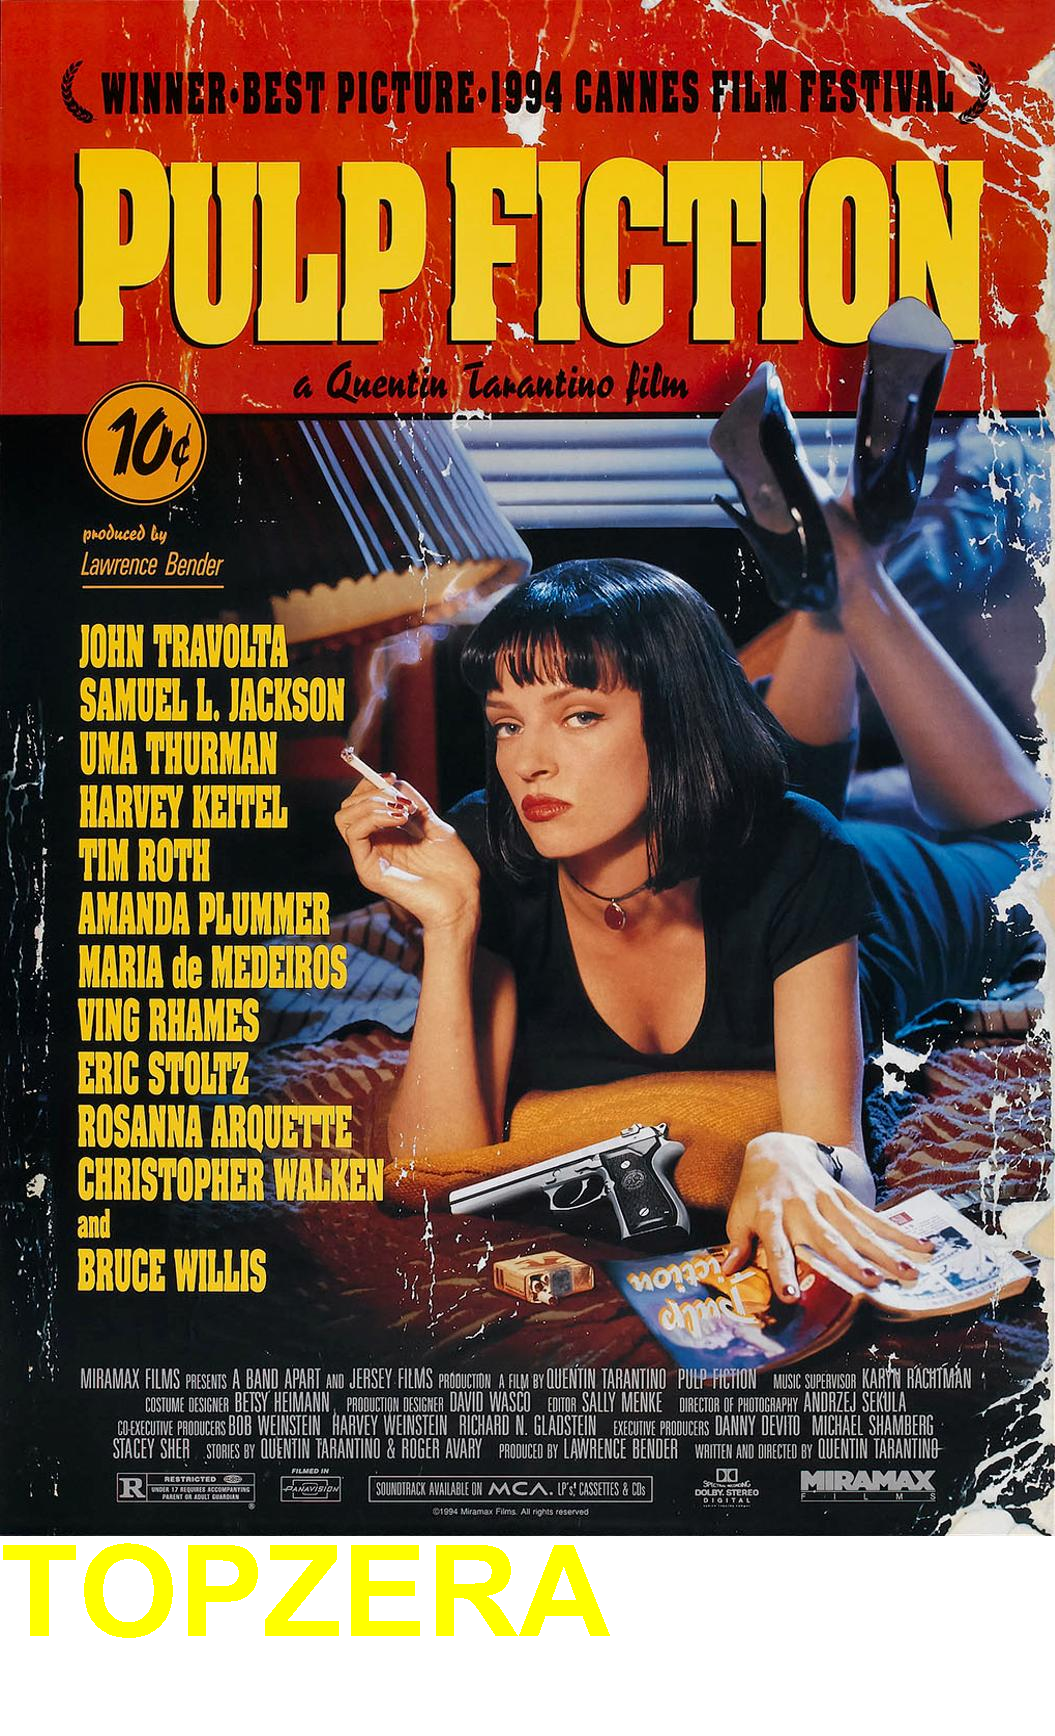
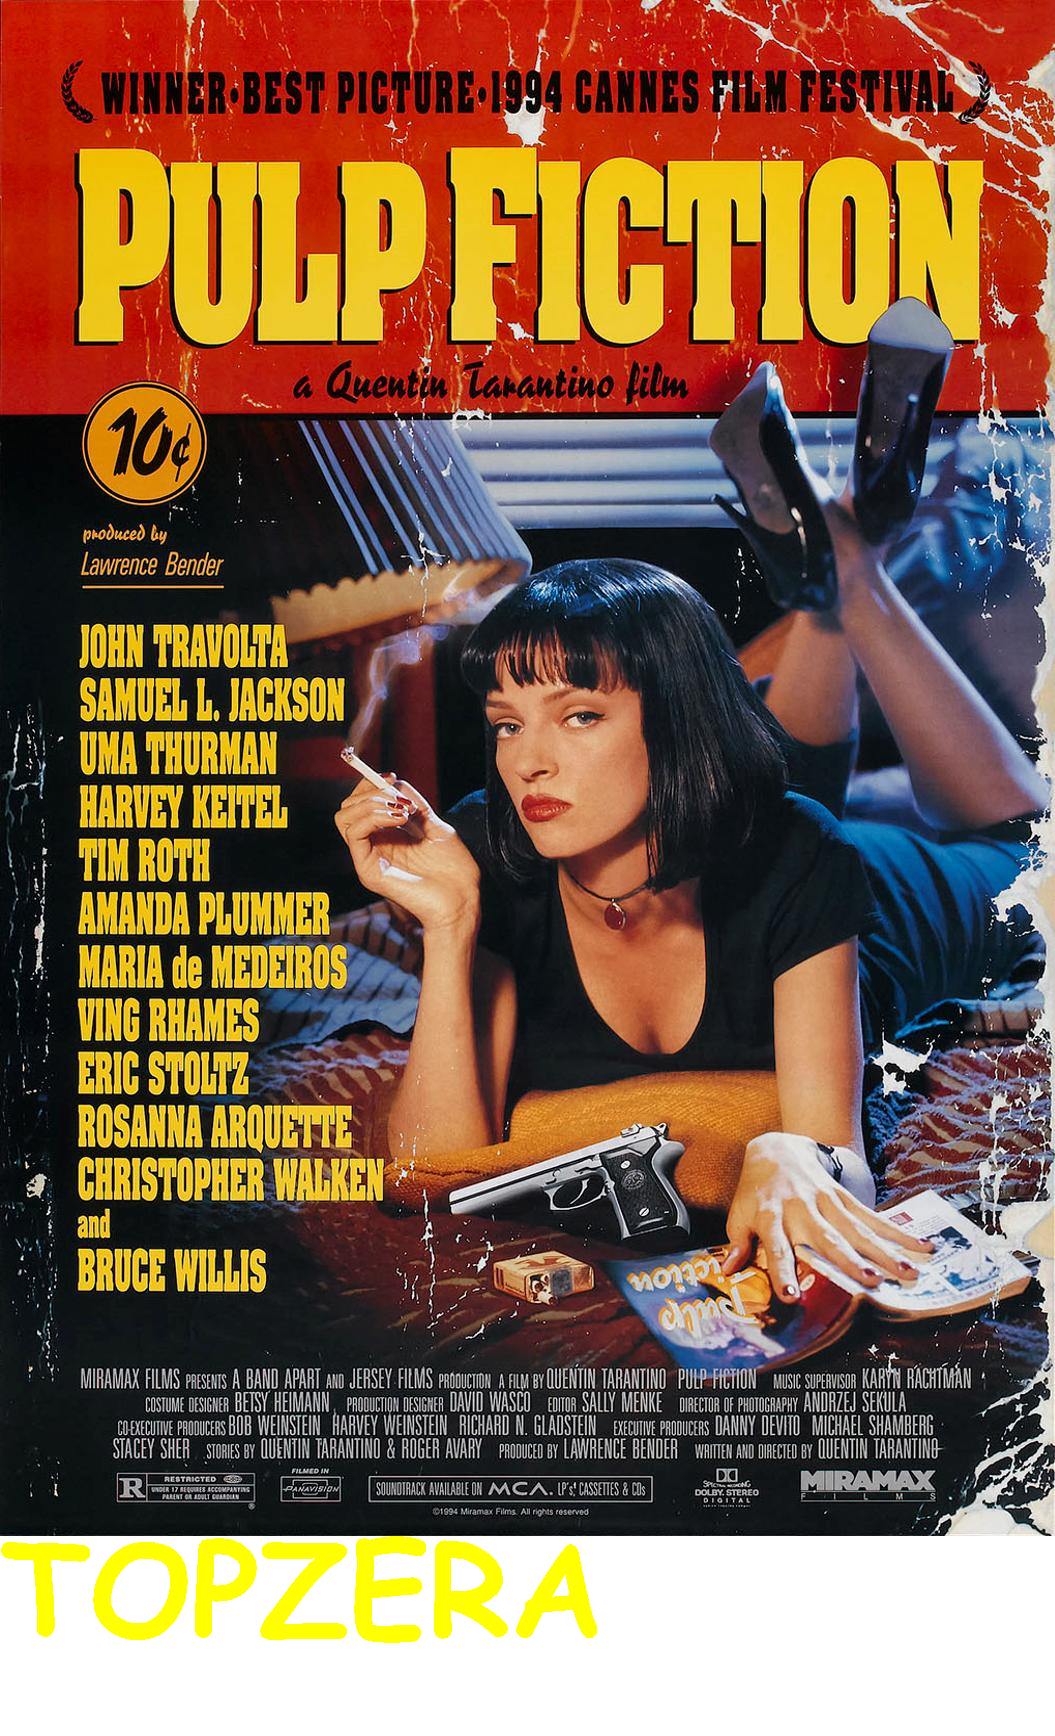
add Aula 02 - Desafio 5

diff --git a/src/GeradoraDeFigurinhas.java b/src/GeradoraDeFigurinhas.java
@@ -19,7 +19,7 @@ public class GeradoraDeFigurinhas {
         Graphics2D graphics = (Graphics2D) novaImagem.getGraphics();
         graphics.drawImage(imagemOriginal, 0, 0, null);
         graphics.setColor(Color.YELLOW);
-        graphics.setFont(new Font(Font.SANS_SERIF, Font.BOLD, 128));
+        graphics.setFont(new Font("Comic Sans MS", Font.BOLD, 128));
         graphics.drawString("TOPZERA", 0, novaAltura - 100);
 
         new File("saida/").mkdir();

diff --git a/README.md b/README.md
@@ -1,3 +1,3 @@
-# Desafio 4
+# Desafio 5
 
-Criar diretório de saída das imagens, se ainda não existir.
+Colocar outra fonte como a Comic Sans ou a Impact, a fonte usada em memes.
